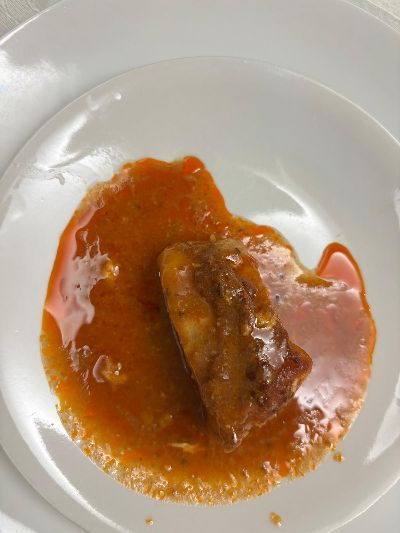
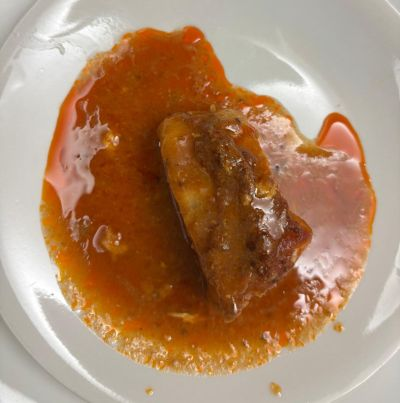
new images

diff --git a/recipes.js b/recipes.js
@@ -746,7 +746,7 @@ const recipes = [
     title: "סלט סימון (סלט מרוקאי)",
     author: "סבתא סימון",
     tags: ["סלטים", "צמחוני", "English"],
-    image: "", 
+    image: "images/simone_salad.jpeg", 
     sourceUrl: "",
     ingredients: [
         { amount: 3, unit: "", item: "עגבניות קלופות וחתוכות לקוביות" },
@@ -846,7 +846,7 @@ const recipes = [
     title: "דג וחומוס",
     author: "סבתא סימון",
     tags: ["דגים", "English"],
-    image: "", 
+    image: "images/simone_fish_hummus.jpeg", 
     sourceUrl: "",
     ingredients: [
         {
@@ -1572,7 +1572,7 @@ const recipes = [
     title: "סביח",
     author: "פלמיניה",
     tags: ["צמחוני", "English"],
-    image: "", 
+    image: "images/flaminia_sabich.jpeg", 
     sourceUrl: "",
     ingredients: [
         {
